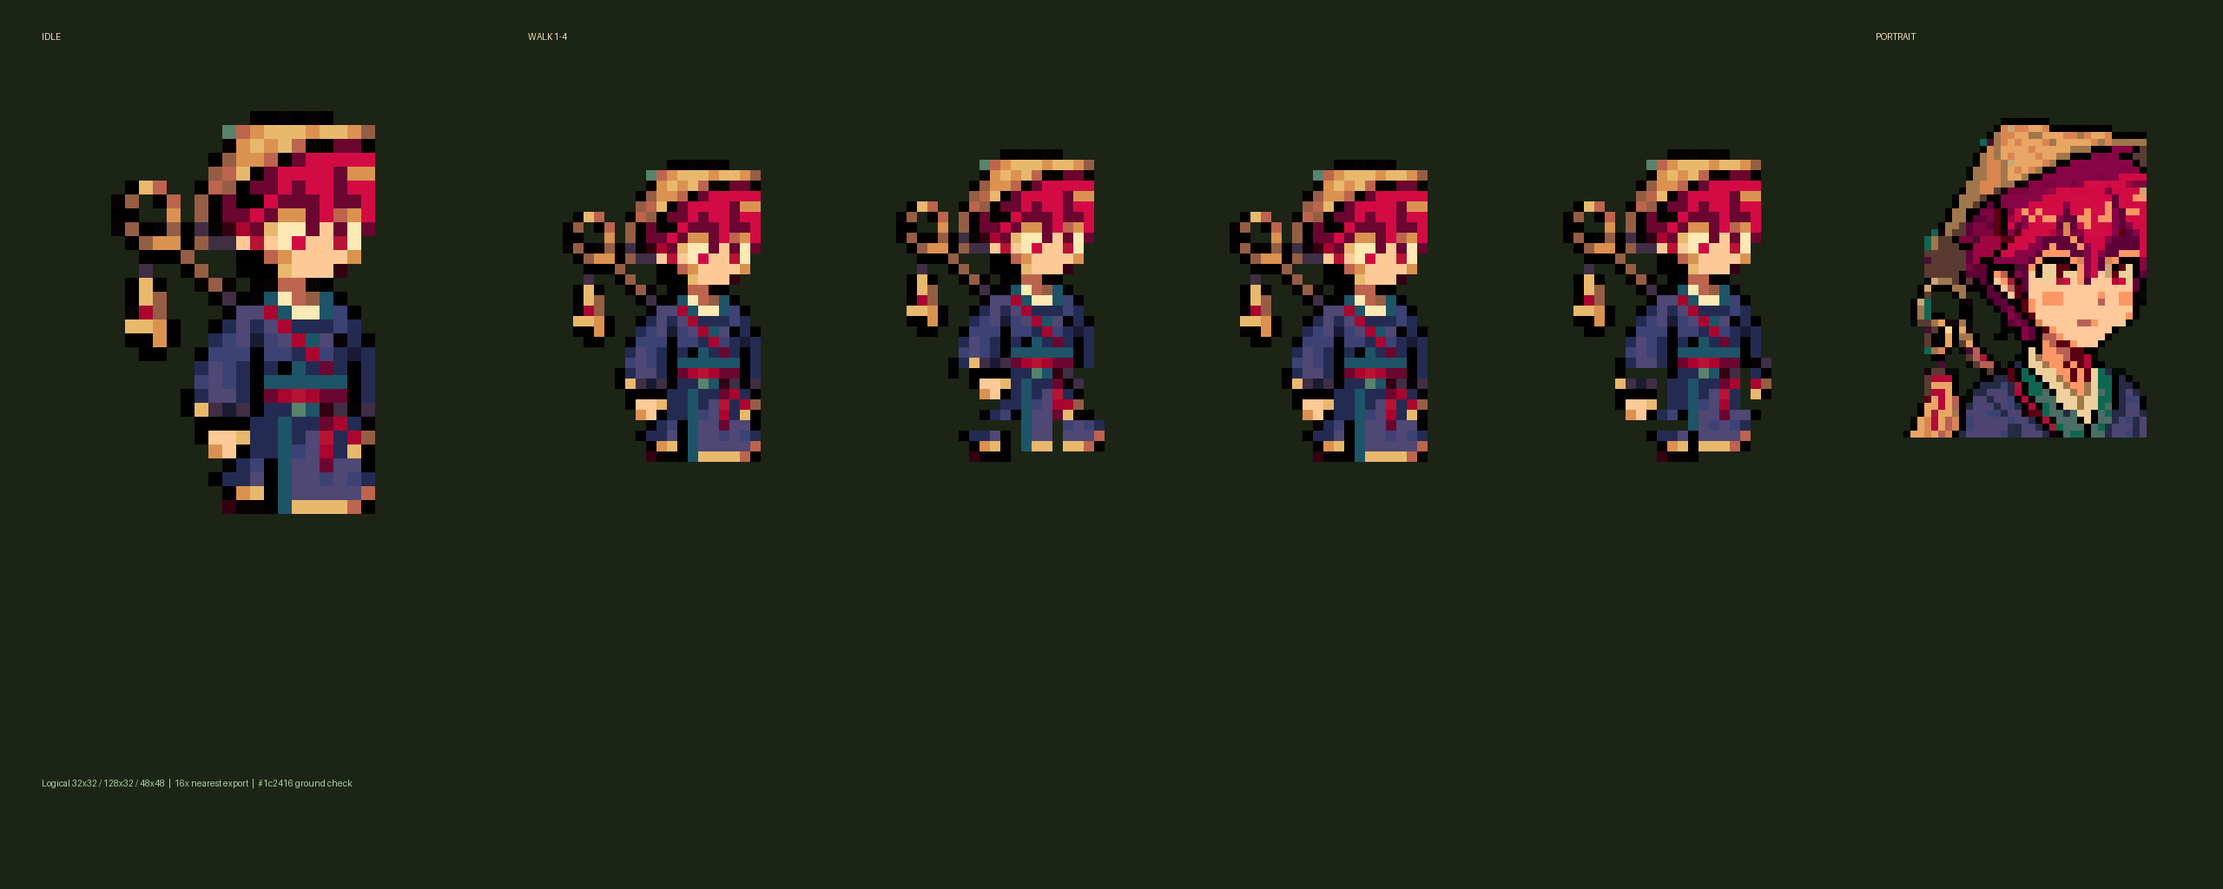
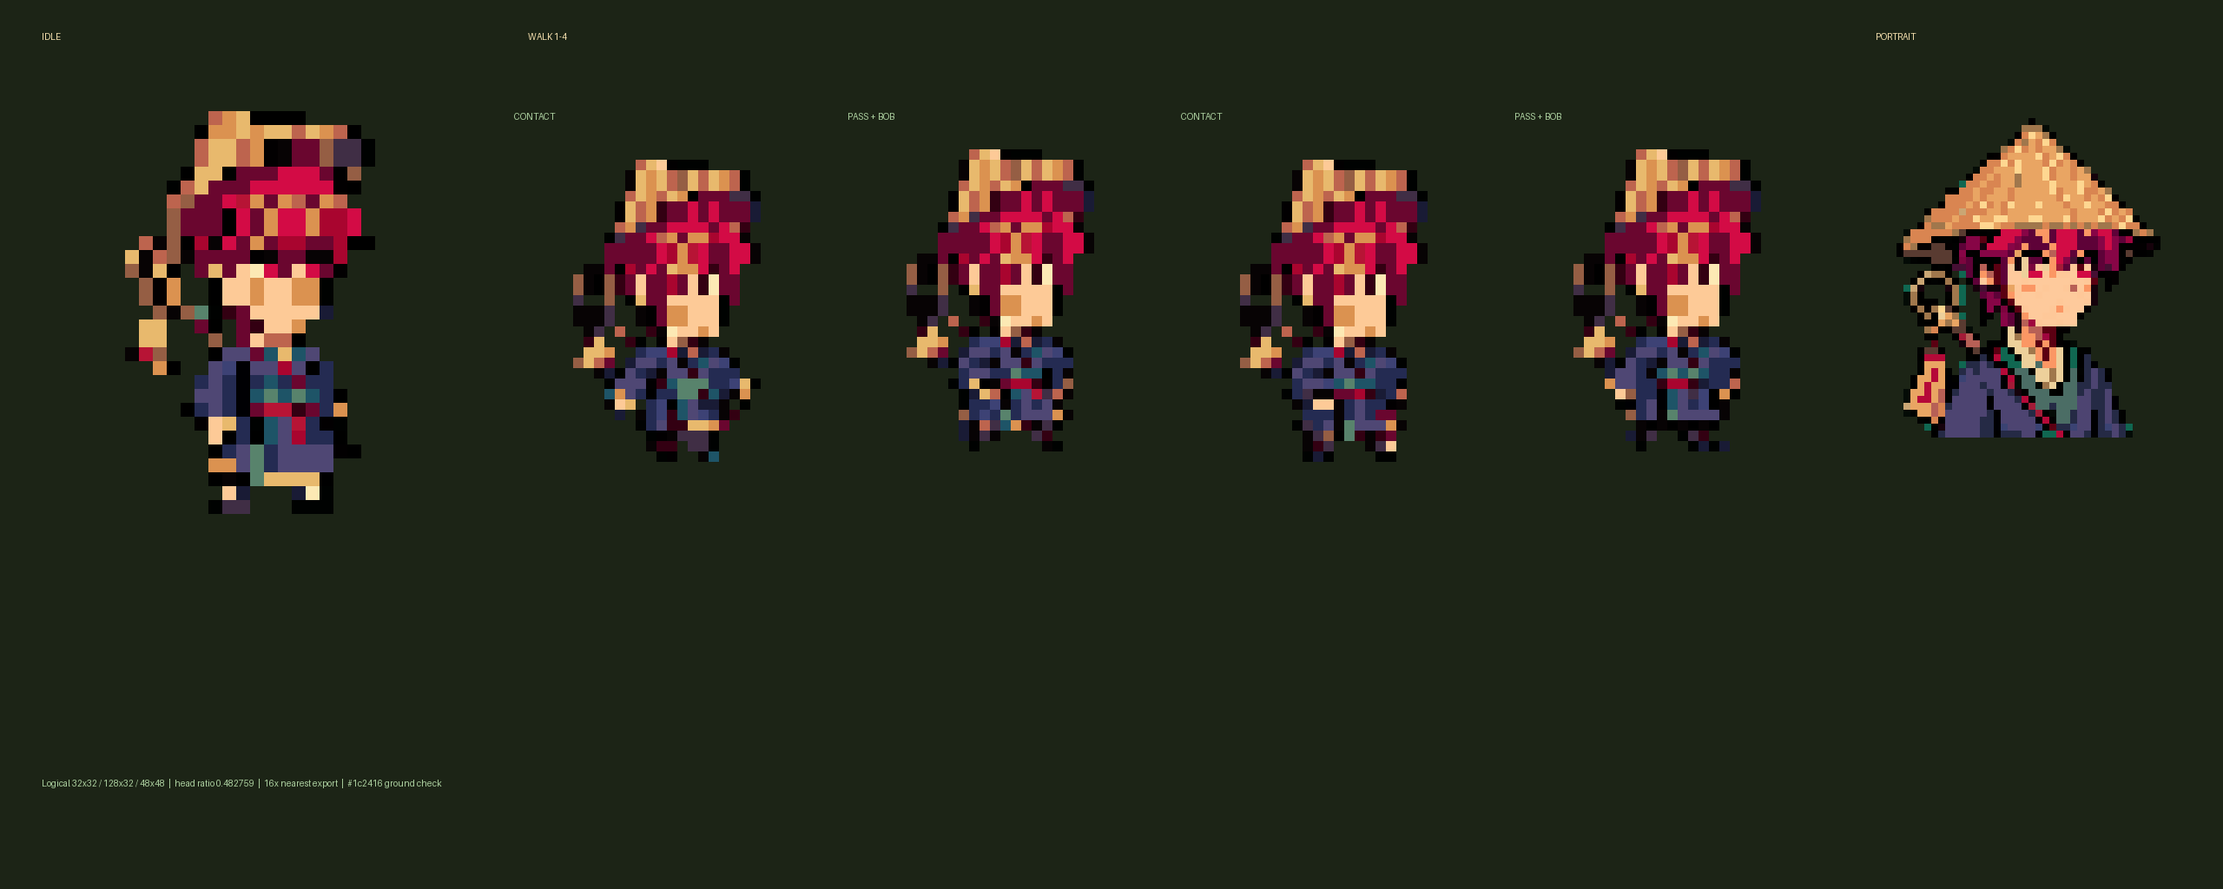
fix(assets): use owner-authored taoist sprites

diff --git a/asset/characters/taoist/build_assets.py b/asset/characters/taoist/build_assets.py
@@ -6,10 +6,27 @@ from PIL import Image, ImageDraw
 
 
 ROOT = Path(__file__).resolve().parents[3]
-SOURCE = ROOT / "tmp" / "taoist" / "higgsfield-base-retake.png"
+SOURCE = ROOT / "new_asset" / "taoist.png"
+WALK_SOURCE = ROOT / "new_asset" / "taoist_walk.png"
 OUT = ROOT / "asset" / "characters" / "taoist"
 SCALE = 16
 GROUND = (28, 36, 22, 255)
+IDLE_PALETTE = (
+    (0, 0, 0), (0, 0, 3), (0, 2, 1), (2, 0, 1), (7, 3, 4), (25, 27, 53),
+    (30, 84, 103), (36, 43, 82), (51, 0, 18), (61, 66, 117), (64, 46, 69),
+    (79, 71, 116), (88, 131, 108), (106, 6, 47), (149, 94, 68), (169, 5, 47),
+    (183, 20, 53), (189, 100, 78), (211, 11, 69), (219, 146, 80),
+    (232, 185, 109), (252, 233, 180), (253, 202, 151),
+)
+PORTRAIT_PALETTE = (
+    (0, 0, 0), (0, 0, 3), (1, 2, 1), (3, 0, 1), (4, 11, 6), (16, 103, 81),
+    (21, 2, 11), (37, 42, 69), (59, 67, 115), (70, 15, 51), (75, 109, 101),
+    (77, 68, 113), (89, 59, 49), (91, 0, 18), (94, 2, 56), (124, 5, 62),
+    (135, 5, 70), (159, 5, 62), (160, 119, 76), (163, 27, 55), (181, 9, 56),
+    (183, 96, 86), (202, 166, 116), (210, 10, 68), (210, 12, 69), (217, 133, 81),
+    (233, 165, 99), (237, 208, 155), (251, 151, 100), (254, 200, 153),
+    (254, 202, 156), (254, 215, 145),
+)
 
 
 def remove_green(image: Image.Image) -> Image.Image:
@@ -29,15 +46,58 @@ def trim(image: Image.Image) -> Image.Image:
     return image.crop(bbox)
 
 
-def snap_palette(image: Image.Image, colors: int) -> Image.Image:
+def snap_palette(image: Image.Image, palette: tuple[tuple[int, int, int], ...]) -> Image.Image:
     alpha = image.getchannel("A").point(lambda value: 255 if value else 0)
-    rgb = image.convert("RGB").quantize(colors=colors, method=Image.Quantize.MEDIANCUT, dither=Image.Dither.NONE).convert("RGB")
-    rgb.putalpha(alpha)
-    return rgb
+    rgba = image.convert("RGBA")
+    snapped = []
+    for r, g, b, value in rgba.get_flattened_data():
+        if not value:
+            snapped.append((0, 0, 0, 0))
+            continue
+        nearest = min(palette, key=lambda color: (r - color[0]) ** 2 + (g - color[1]) ** 2 + (b - color[2]) ** 2)
+        snapped.append((*nearest, 255))
+    rgba.putdata(snapped)
+    rgba.putalpha(alpha)
+    return rgba
 
 
-def logical_from_crop(source: Image.Image, box: tuple[int, int, int, int], size: tuple[int, int], max_subject: tuple[int, int], colors: int) -> Image.Image:
-    subject = trim(source.crop(box))
+def keep_largest_component(image: Image.Image) -> Image.Image:
+    alpha = image.getchannel("A")
+    width, height = image.size
+    seen: set[tuple[int, int]] = set()
+    components: list[list[tuple[int, int]]] = []
+    for y in range(height):
+        for x in range(width):
+            if (x, y) in seen or alpha.getpixel((x, y)) == 0:
+                continue
+            stack = [(x, y)]
+            seen.add((x, y))
+            component: list[tuple[int, int]] = []
+            while stack:
+                px, py = stack.pop()
+                component.append((px, py))
+                for nx, ny in ((px - 1, py), (px + 1, py), (px, py - 1), (px, py + 1)):
+                    if 0 <= nx < width and 0 <= ny < height and (nx, ny) not in seen and alpha.getpixel((nx, ny)):
+                        seen.add((nx, ny))
+                        stack.append((nx, ny))
+            components.append(component)
+    if not components:
+        raise ValueError("crop contains no foreground component")
+    keep = set(max(components, key=len))
+    result = image.copy()
+    result.putalpha(Image.new("L", image.size, 0))
+    out_alpha = result.getchannel("A")
+    for x, y in keep:
+        out_alpha.putpixel((x, y), 255)
+    result.putalpha(out_alpha)
+    return result
+
+
+def logical_from_crop(source: Image.Image, box: tuple[int, int, int, int], size: tuple[int, int], max_subject: tuple[int, int], palette: tuple[tuple[int, int, int], ...], *, largest_only: bool = False) -> Image.Image:
+    crop = source.crop(box)
+    if largest_only:
+        crop = keep_largest_component(crop)
+    subject = trim(crop)
     max_w, max_h = max_subject
     factor = min(max_w / subject.width, max_h / subject.height)
     resized = subject.resize((max(1, round(subject.width * factor)), max(1, round(subject.height * factor))), Image.Resampling.NEAREST)
@@ -45,40 +105,99 @@ def logical_from_crop(source: Image.Image, box: tuple[int, int, int, int], size:
     x = (size[0] - resized.width) // 2
     y = size[1] - resized.height - 1
     canvas.alpha_composite(resized, (x, y))
-    return snap_palette(canvas, colors)
+    return snap_palette(canvas, palette)
 
 
-def shift_patch(image: Image.Image, box: tuple[int, int, int, int], dx: int, dy: int) -> None:
-    patch = image.crop(box)
-    clear = Image.new("RGBA", patch.size)
-    image.paste(clear, box)
-    image.alpha_composite(patch, (box[0] + dx, box[1] + dy))
+def rebalance_two_head(image: Image.Image) -> Image.Image:
+    """Compress the source body while retaining its authored head and palette."""
+    bbox = image.getchannel("A").getbbox()
+    if bbox is None:
+        raise ValueError("sprite contains no foreground")
+    _, chin, total_height, _ = measure_head_ratio(image)
+    if total_height != 29:
+        raise ValueError(f"expected a 29-pixel source figure, got {total_height}")
+
+    split = chin + 1
+    subject_width = bbox[2] - bbox[0]
+    head = image.crop((bbox[0], bbox[1], bbox[2], split))
+    body = image.crop((bbox[0], split, bbox[2], bbox[3]))
+    candidates: list[tuple[float, Image.Image]] = []
+    for head_height in range(head.height + 1, min(21, total_height - 7)):
+        body_height = total_height - head_height
+        candidate = Image.new("RGBA", image.size)
+        candidate.alpha_composite(
+            head.resize((subject_width, head_height), Image.Resampling.NEAREST),
+            (bbox[0], bbox[1]),
+        )
+        candidate.alpha_composite(
+            body.resize((subject_width, body_height), Image.Resampling.NEAREST),
+            (bbox[0], bbox[1] + head_height),
+        )
+        _, _, candidate_total, ratio = measure_head_ratio(candidate)
+        if candidate_total == 29 and 0.42 <= ratio <= 0.55:
+            candidates.append((abs(ratio - 0.48), candidate))
+    if not candidates:
+        raise ValueError("could not rebalance source to the 0.42-0.55 head ratio")
+    return min(candidates, key=lambda item: item[0])[1]
 
 
-def walk_frame(idle: Image.Image, phase: int, bob: int) -> Image.Image:
-    frame = Image.new("RGBA", idle.size)
-    frame.alpha_composite(idle, (0, -bob))
-    # Reposition only source-derived lower-leg and hand patches. These boxes
-    # deliberately exclude the head and central torso, which stay pixel-locked.
-    shift_patch(frame, (13, 28 - bob, 18, 31 - bob), -phase, abs(phase))
-    shift_patch(frame, (21, 28 - bob, 25, 31 - bob), phase, 0)
-    shift_patch(frame, (12, 23 - bob, 16, 27 - bob), phase, -phase)
-    shift_patch(frame, (23, 23 - bob, 26, 27 - bob), -phase, phase)
-    return frame
+def assemble_walk(source_frames: list[Image.Image]) -> list[Image.Image]:
+    """Lock frame-one's upper body and retain the authored leg poses below it."""
+    if len(source_frames) != 4:
+        raise ValueError("walk assembly requires four source frames")
+    base = source_frames[0]
+    cut_row = 23
+    result: list[Image.Image] = []
+    for index, authored in enumerate(source_frames):
+        bob = 1 if index in (1, 3) else 0
+        locked = Image.new("RGBA", base.size)
+        locked.alpha_composite(base, (0, -bob))
+        posed = Image.new("RGBA", authored.size)
+        posed.alpha_composite(authored, (0, -bob))
+        lower_start = cut_row - bob
+        lower_box = (0, lower_start, 32, 32)
+        locked.paste(posed.crop(lower_box), lower_box)
+        result.append(locked)
+    return result
 
 
 def upscale(image: Image.Image) -> Image.Image:
     return image.resize((image.width * SCALE, image.height * SCALE), Image.Resampling.NEAREST)
 
 
-def save_outputs(idle: Image.Image, portrait: Image.Image) -> None:
+def measure_head_ratio(idle: Image.Image) -> tuple[int, int, int, float]:
+    """Measure approved hair-top through chin against full opaque height."""
+    bbox = idle.getchannel("A").getbbox()
+    if bbox is None:
+        raise ValueError("idle sprite contains no foreground")
+    hair_rows: list[int] = []
+    for y in range(bbox[1], bbox[3]):
+        for x in range(10, 25):
+            r, g, b, alpha = idle.getpixel((x, y))
+            if alpha and r >= 80 and g <= 25 and 30 <= b <= 100:
+                hair_rows.append(y)
+    if not hair_rows:
+        raise ValueError("could not locate hair-top row")
+    hair_top = min(hair_rows)
+    skin_counts: dict[int, int] = {}
+    for y in range(hair_top + 7, min(bbox[3], hair_top + 17)):
+        count = 0
+        for x in range(10, 25):
+            r, g, b, alpha = idle.getpixel((x, y))
+            if alpha and r >= 190 and g >= 100 and 70 <= b <= 180:
+                count += 1
+        skin_counts[y] = count
+    chin_candidates = [y for y, count in skin_counts.items() if count >= 3]
+    if not chin_candidates:
+        raise ValueError("could not locate chin row")
+    chin = max(chin_candidates)
+    total_height = bbox[3] - bbox[1]
+    ratio = (chin - hair_top + 1) / total_height
+    return hair_top, chin, total_height, ratio
+
+
+def save_outputs(idle: Image.Image, portrait: Image.Image, walk_logical: list[Image.Image], ratio: float) -> None:
     OUT.mkdir(parents=True, exist_ok=True)
-    walk_logical = [
-        walk_frame(idle, phase=0, bob=0),
-        walk_frame(idle, phase=1, bob=1),
-        walk_frame(idle, phase=0, bob=0),
-        walk_frame(idle, phase=-1, bob=1),
-    ]
 
     idle_export = upscale(idle)
     portrait_export = upscale(portrait)
@@ -108,22 +227,41 @@ def save_outputs(idle: Image.Image, portrait: Image.Image) -> None:
     draw.text((48, 36), "IDLE", fill=(245, 224, 174, 255))
     sheet.alpha_composite(idle_export, (32, 96))
     draw.text((608, 36), "WALK 1-4", fill=(245, 224, 174, 255))
+    for index, label in enumerate(("CONTACT", "PASS + BOB", "CONTACT", "PASS + BOB")):
+        draw.text((592 + index * 384, 128), label, fill=(173, 209, 160, 255))
     walk_display = walk_export.resize((1536, 384), Image.Resampling.NEAREST)
     sheet.alpha_composite(walk_display, (576, 160))
     draw.text((2160, 36), "PORTRAIT", fill=(245, 224, 174, 255))
     portrait_display = portrait_export.resize((384, 384), Image.Resampling.NEAREST)
     sheet.alpha_composite(portrait_display, (2144, 128))
-    draw.text((48, 896), "Logical 32x32 / 128x32 / 48x48  |  16x nearest export  |  #1c2416 ground check", fill=(173, 209, 160, 255))
+    draw.text((48, 896), f"Logical 32x32 / 128x32 / 48x48  |  head ratio {ratio:.6f}  |  16x nearest export  |  #1c2416 ground check", fill=(173, 209, 160, 255))
     sheet.convert("RGB").save(OUT / "contact-sheet.png", optimize=True)
 
 
 def main() -> None:
     source = remove_green(Image.open(SOURCE))
-    idle = logical_from_crop(source, (25, 340, 790, 1575), (32, 32), (30, 29), 24)
-    # Focus the card portrait on the face/upper torso; the separate full-body
-    # figure on the left of the Higgsfield sheet must not enter this crop.
-    portrait = logical_from_crop(source, (900, 285, 1790, 1495), (48, 48), (46, 46), 32)
-    save_outputs(idle, portrait)
+    idle = logical_from_crop(source, (0, 200, 930, 1770), (32, 32), (30, 29), IDLE_PALETTE, largest_only=True)
+    idle = rebalance_two_head(idle)
+    portrait = logical_from_crop(source, (930, 200, 2048, 1650), (48, 48), (46, 46), PORTRAIT_PALETTE, largest_only=True)
+
+    walk_source = remove_green(Image.open(WALK_SOURCE))
+    authored_walk = [
+        logical_from_crop(
+            walk_source,
+            (index * 384, 0, (index + 1) * 384, 440),
+            (32, 32),
+            (30, 29),
+            IDLE_PALETTE,
+            largest_only=True,
+        )
+        for index in range(4)
+    ]
+    walk_logical = assemble_walk([rebalance_two_head(frame) for frame in authored_walk])
+    hair_top, chin, total_height, ratio = measure_head_ratio(idle)
+    if not 0.42 <= ratio <= 0.55:
+        raise ValueError(f"head ratio {ratio:.6f} is outside the 0.42-0.55 contract")
+    save_outputs(idle, portrait, walk_logical, ratio)
+    print(f"head ratio: ({chin} - {hair_top} + 1) / {total_height} = {ratio:.6f}")
 
 
 if __name__ == "__main__":

diff --git a/asset/characters/taoist/README.md b/asset/characters/taoist/README.md
@@ -1,58 +1,51 @@
 # Young Taoist character set
 
-This set replaces the rejected old-sage interpretation with a clearly young, clean-shaven Taoist adept. Higgsfield authored the base character art; `build_assets.py` performs only chroma removal, cropping, nearest-neighbor reduction, palette snapping, and source-pixel frame assembly.
+This set uses the owner-authored replacement sheets in `new_asset/taoist.png` and `new_asset/taoist_walk.png`. The approved clean-shaven face, crimson hair, anime eyes, blush, navy/teal robe, ringed staff, talisman, and straw hat come directly from those raster sources. `build_assets.py` performs only chroma removal, cropping, nearest-neighbor reduction, exact palette snapping, proportion rebalance, and source-pixel frame assembly.
 
-## Mandatory reference inspection
+## Source art
 
-- `new_asset/basic.png` — a tiny chunky pixel figure with vivid magenta hair, a pale face, and saturated cyan/pink/gold accessories.
-- `new_asset/Character.png` — three clean-outlined Korean pixel heroes on magenta: a white-robed youth, a navy-armored guard, and a straw-hatted green archer.
-- `new_asset/523051e1-580e-4c49-8499-d86b210a7bf7.png` — a compact dark-clad figure with deep magenta hair and a pale lavender face covering.
-- `new_asset/532ccc6c-5c28-4a06-9a7f-b1090ad1e79c.png` — a black-outfitted chunky figure whose bright pink side locks dominate the silhouette.
-- `new_asset/76dfc822-fc88-4ef3-a850-051d5f7ed069.png` — a saturated pink/red character with tall hair or ear-like tufts and a bright gold chest accent.
-- `new_asset/ffd9c51c-eda6-4938-beeb-c92eb89b883b.png` — an indigo-haired young figure in a brown coat with a bright cyan-and-white eye/face accent.
-- `example/KakaoTalk_20260814_143733532_01.png` — the Korean character-select screen with 설아 and 무운 cards; 설아 establishes the youthful, readable portrait standard.
-- `example/KakaoTalk_20260814_143733532_06.png` — gameplay in a dark forest showing the small fan-carrying player sprite among skeletons, goblins, trees, and XP orbs.
+| File | Canvas | SHA-256 | Contents used |
+| --- | ---: | --- | --- |
[2 lines of base64/hex data omitted]
 
-`DESIGN.md` section 5.1 was read before generation. Its owner-locked rules—young age, anime-pretty face, vivid hair, two-head proportions, high saturation, and identity props layered over that look—were treated as hard constraints.
-
-## Higgsfield source
-
-- Requested model alias: `nano_banana_pro`
-- Generation receipt model: `nano_banana_2`
-- Job ID: `d97ba21c-7ca3-4b91-9b12-a3fc66ad10fd`
-- Output: 2048×2048 PNG, 1:1, 2K
-- Cost: 2 Higgsfield credits (coordinator-approved)
-- Reference inputs: `Character.png`, `523051e1-580e-4c49-8499-d86b210a7bf7.png`, and the `_01` character-select capture
-
-### Prompt
+The owner replacement supersedes the earlier generated model-sheet revision. Its working art brief was:
 
 ```text
-Create a square pixel-art character model sheet for a Korean roguelite. Show the SAME single young Taoist adept twice: left, a full-body right-facing idle sprite pose; right, a waist-up character-select portrait. Use the provided images only as the owner-locked style and scale family references.
-
-Character: late teens to twenties, unmistakably young and pretty, clean-shaven, no wrinkles, no old-sage silhouette. Anime face with very large eyes showing visible white sclera and crisp crimson irises, tiny nose and mouth, warm cheek blush, clean black outline. Vivid deep crimson-to-magenta hair is the main silhouette identifier, with sweeping bangs framing the face. Two-head chunky chibi proportions: head about half total height, short torso and legs, blocky hands and feet. High-saturation flat colors with one or two hard shading steps.
-
-Taoist identity props sit on top of that youthful look: a compact straw conical hat worn sharply tilted back so the entire face and hair stay visible; a ringed ritual staff held behind/beside the body; several yellow-red paper talismans at the belt and on the staff. NEVER a sword. Outfit: saturated indigo/navy short robe, teal sash, crimson cords, ivory collar, gold accents. Character faces right in the full-body view.
-
-Pixel execution: deliberate chunky pixel clusters, crisp black 1-pixel-style outline, no anti-aliasing, no blur, no painterly texture, no dithering, no gradients. Full-body pose must have a clear readable silhouette suitable for reduction to 32x32; portrait should retain the same face, hair, hat, clothes, staff and talismans with richer detail. Place both views well separated on a perfectly flat solid #00ff00 chroma-key background, no shadows, no floor, no text, no watermark. Do not use #00ff00 in the character.
-
-Hard avoid: beard, mustache, wrinkles, closed or tiny eyes, realistic adult face, middle-aged man, old hermit, sage, gray/brown hair, muted or sepia colors, oversized hat hiding the eyes, weapon blade, sword, extra limbs, multiple characters.
+Young, pretty Korean Taoist adept in chunky two-head anime pixel art. Preserve the vivid
+crimson-pink hair, large eyes with visible whites and clear crimson irises, cheek blush,
+small nose and mouth, navy/teal robe, ringed staff, and paper talisman. Give the character
+a clearly readable wide straw conical hat, tilted so the entire face remains visible.
+Use crisp black outlines, saturated flat color, and one or two hard shading steps. No beard,
+wrinkles, old-sage silhouette, muted palette, sword, text, shadow, or background detail;
+render on a flat chroma-green background.
 ```
 
 ## Output contract
 
 | File | Logical canvas | Export canvas | Notes |
 | --- | ---: | ---: | --- |
-| `idle.png` | 32×32 | 512×512 | Right-looking idle, 29 px subject height |
-| `walk.png` | 128×32 | 2048×512 | Four 32×32 frames, horizontal |
-| `portrait.png` | 48×48 | 768×768 | Character-select bust |
-| `preview.gif` | 32×32 | 512×512 | Four-frame loop, alternating 120/130 ms delays for exactly 8 fps on average |
-| `contact-sheet.png` | n/a | 2560×1024 | Dark-green `#1c2416` readability check |
+| `idle.png` | 32×32 | 512×512 | Right-looking idle; 29 px subject height; head ratio `0.482759` |
+| `walk.png` | 128×32 | 2048×512 | Four 32×32 frames: contact, pass+bob, contact, pass+bob |
+| `portrait.png` | 48×48 | 768×768 | Full hat and head fit inside the canvas |
+| `preview.gif` | 32×32 | 512×512 | Four-frame loop at an exact 8 fps average |
+| `contact-sheet.png` | n/a | 2560×1024 | Dark-green `#1c2416` silhouette/readability check |
 
-All sprite PNGs use binary alpha (`0` or `255`) and exact 16× nearest-neighbor blocks. Walk frames 1 and 3 use the idle source, while frames 2 and 4 move only existing hand/lower-leg regions and apply a one-logical-pixel bob; head and central torso pixels remain identical after bob alignment.
+All PNGs have binary alpha (`0` or `255`) and exact 16× nearest-neighbor blocks. Walk frames use the authored lower-body poses from sheet frames 1–4; the frame-one head and torso are locked across the strip, while passing frames 2 and 4 receive the required one-logical-pixel bob.
+
+## Proportion measurement
+
+The script measures the final 32×32 idle in code. Hair begins on logical row 4, the chin ends on row 17, and the full opaque figure is 29 rows high:
+
+```text
+(17 - 4 + 1) / 29 = 0.482759
+```
+
+This is inside the owner-locked `0.42–0.55` range. The source head pixels are retained; only their vertical allocation versus the body is changed, so the total sprite remains 29 px tall.
 
 ## Palette
 
-The in-world sprite is snapped to 24 RGBA entries (23 opaque colors plus transparent); the portrait uses 32 opaque colors plus transparent. Dominant opaque colors are:
+The in-world sprites use 23 exact opaque colors plus transparency. The portrait uses 32 exact opaque colors plus transparency. Key colors include:
 
 ```text
 outline       #000000  #070304  #020001
@@ -66,9 +59,9 @@ talisman      #e8b96d  #d30b45
 
 ## Reproduction
 
-1. Download the completed Higgsfield job PNG to `tmp/taoist/higgsfield-base-retake.png`.
+1. Keep the two source sheets at the paths listed above.
 2. Install Pillow if needed: `python -m pip install Pillow`.
 3. Run `python asset/characters/taoist/build_assets.py` from the repository root.
-4. The script removes only strong chroma-green pixels, uses fixed source crops for the full body and portrait, snaps flat palettes without dithering, assembles walk frames from existing logical pixels, exports at 16× nearest-neighbor scale, and writes the contact sheet/GIF.
+4. The script removes strong chroma green, isolates each source figure, reduces it to the logical grid, snaps the approved exact palettes, compresses the body until the measured two-head ratio passes, locks the walk upper body, exports at 16× nearest-neighbor scale, and writes the GIF/contact sheet.
 
-Final visual review confirmed a youthful clean-shaven face, visible eye whites and crimson irises, cheek blush, vivid crimson hair, tilted face-revealing hat, ringed staff, talismans, dark-ground readability, and no sword.
+Final visual review compared `idle.png` directly beside the owner reference `basic.png`. The head/body balance reads in the same chunky family, the wide hat and vivid hair remain distinct on `#1c2416`, the portrait has clear padding around the full hat, and no sword appears anywhere.
